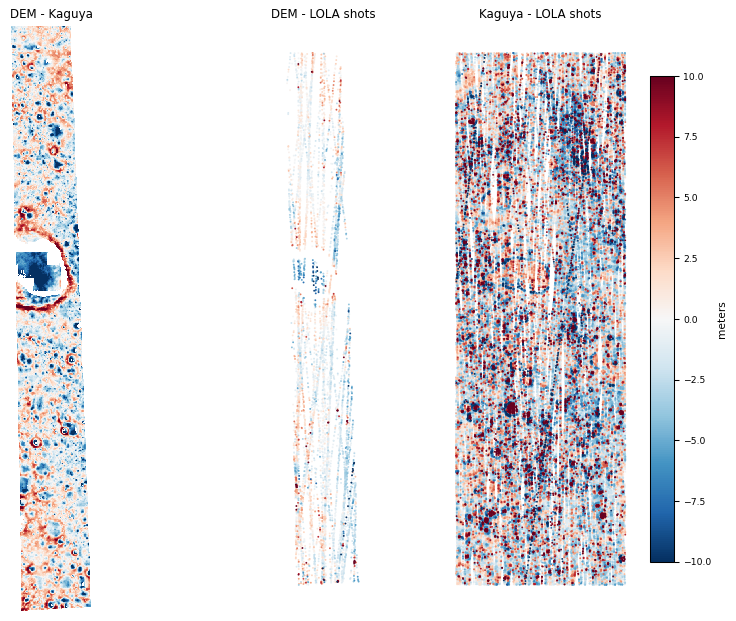
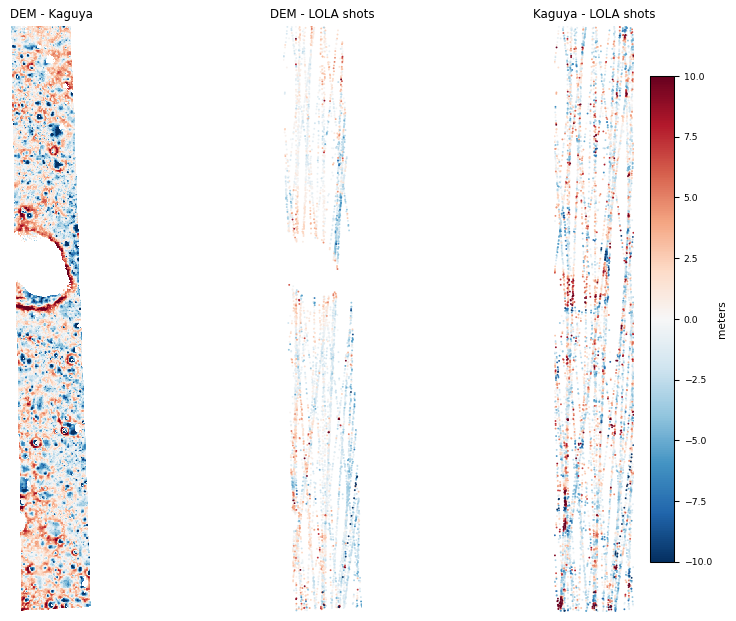
Chandrayaan-2 doc: mask the OHRC shadow crater, expand the mapproj pass
Add the shadow-mask recipe (image_calc) to both stereo passes, emit the
orthoimage from both point2dem runs, move the final-DEM figure into the
mapprojected-stereo section, rebuild the hillshade, DEM, and vertical
figures with the crater masked and the vertical panels cropped tight, add
a LOLA-refinement section, and drop the pointmap figure.

diff --git a/docs/examples/chandrayaan2.rst b/docs/examples/chandrayaan2.rst
@@ -237,15 +237,34 @@ Make the DEM at 1 m, with the orthoimage and triangulation error
     point2dem --tr 1.0 --errorimage --orthoimage \
       stereo/run-PC.tif stereo/run-L.tif
 
-.. figure:: ../images/chandrayaan2_ohrc_dem.png
-   :name: chandrayaan2_ohrc_dem
+.. _ohrc_shadow_mask:
 
-   The final DEM (mapprojected pass, see below), orthoimage, and triangulation
-   error (0 to 0.5 m). The median triangulation error is 0.07 m. The horizontal
-   striping in the error is along-track jitter at the 0.25 m GSD scale, which
-   could be reduced if solving for jitter (:numref:`jitter_solve`). An artifact
-   exists in the shadow region that is not present when stereo is rerun with
-   mapprojected images (below).
+The deep-shadow crater on this strip has almost no image signal, so stereo
+leaves an artifact there: a spurious block in the DEM with high triangulation
+error. Mask it out with the orthoimage, which is near zero in shadow. First
+build a binary mask that is 1 on lit terrain and 0 in shadow
+(:numref:`image_calc_create_mask`)::
+
+    thresh=0.1
+    image_calc -c "gte(var_0, $thresh, 1, 0)" \
+      --output-nodata-value -1e+6             \
+      -d float32                              \
+      stereo/run-DRG.tif                      \
+      -o stereo/run-shadow_mask.tif
+
+Choose the threshold from the orthoimage histogram, large enough to nuke the
+black crater but not the lit terrain (here 0.1). Then apply the mask to the DEM,
+the orthoimage, and the triangulation error, which share the same grid
+(:numref:`image_calc_mask`)::
+
+    image_calc -c "eq(var_1, 0, -9999, var_0)"      \
+      --output-nodata-value -9999                   \
+      -d float32                                    \
+      stereo/run-DEM.tif stereo/run-shadow_mask.tif \
+      -o stereo/run-DEM_masked.tif
+
+The same command is applied to ``run-DRG.tif`` and ``run-IntersectionErr.tif``.
+The masked products are used for all inspection and figures below.
 
 .. _ohrc_dem_align:
 
@@ -319,25 +338,83 @@ Grid the aligned cloud ``run_align/run-trans_source.tif`` with ``point2dem`` and
 inspect it against the reference: a notable crater that was split before should
 snap together.
 
-The transform ``run_align/run-transform.txt`` maps the OHRC DEM to the reference
-and can be applied to the original clouds or cameras (:numref:`prevtrans`,
-:numref:`ba_pc_align`).
+Mapprojection
+^^^^^^^^^^^^^
 
-Second stereo pass (mapprojected)
-^^^^^^^^^^^^^^^^^^^^^^^^^^^^^^^^^
+The transform ``run_align/run-transform.txt`` maps the OHRC DEM to the reference.
+Apply it to the bundle-adjusted cameras (:numref:`prevtrans`,
+:numref:`ba_pc_align`), so both cameras move into the reference frame::
 
-With the cameras aligned, a second pass repeats stereo on the images
-mapprojected at native 0.25 m resolution onto the aligned DEM (filled with the
-reference where it has holes), exactly as for TMC (:numref:`chandra2_tmc_map`).
-This is the final DEM shown in :numref:`chandrayaan2_ohrc_dem`. Here it is a
-solid ~65.6 km^2 strip, and it slightly improves on the first pass in both
-coverage (65.6 vs 64.2 km^2) and triangulation error (0.070 vs 0.082 m).
+    bundle_adjust                                     \
+      ohrc/img1.cub ohrc/img2.cub                     \
+      ba/run-img1.adjusted_state.json                 \
+      ba/run-img2.adjusted_state.json                 \
+      --initial-transform run_align/run-transform.txt \
+      --apply-initial-transform-only                  \
+      --inline-adjustments                            \
+      -o ba_align/run
+
+Mapproject each image at the native ~0.25 m/pixel resolution onto the reference
+DEM, with the aligned cameras. The reference is gapless, so no hole filling is
+needed. The command for the first image is below; the second is identical with
+its own cub and camera::
+
+    mapproject --tr 0.25                     \
+      --t_srs "$proj"                        \
+      ref.tif                                \
+      ohrc/img1.cub                          \
+      ba_align/run-img1.adjusted_state.json  \
+      ohrc/img1.map.tif
+
+The projection variable was set earlier in the text. Both mapprojected images
+inherit the reference DEM's projection, so they are on a common grid.
+
+Stereo with mapprojected images
+^^^^^^^^^^^^^^^^^^^^^^^^^^^^^^^
+
+Run stereo with mapprojected images (:numref:`mapproj-example`) and the aligned
+CSM cameras::
+
+    parallel_stereo                         \
+      --alignment-method none               \
+      --stereo-algorithm asp_mgm            \
+      --subpixel-mode 9                     \
+      --nodes-list nodes.txt                \
+      ohrc/img1.map.tif ohrc/img2.map.tif   \
+      ba_align/run-img1.adjusted_state.json \
+      ba_align/run-img2.adjusted_state.json \
+      stereo_map/run                        \
+      ref.tif
+
+Produce the DEM at 1 m per pixel, with the orthoimage and triangulation error::
+
+    point2dem --tr 1.0      \
+      --t_srs "$proj"       \
+      --errorimage          \
+      --orthoimage          \
+      stereo_map/run-PC.tif \
+      stereo_map/run-L.tif
+
+As in the local-epipolar pass, the deep-shadow crater is a data void. Apply the
+same shadow mask (:ref:`described above <ohrc_shadow_mask>`) to the DEM,
+orthoimage, and triangulation error before inspecting.
+
+.. figure:: ../images/chandrayaan2_ohrc_dem.png
+   :name: chandrayaan2_ohrc_dem
+
+   The final DEM (hillshade), orthoimage, and triangulation error (0 to 0.5 m),
+   after masking the shadow crater. The median triangulation error is 0.07 m. The
+   horizontal striping in the error is along-track jitter at the 0.25 m GSD scale,
+   which could be reduced by solving for jitter (:numref:`jitter_solve`).
+
+This is a solid ~65.6 km^2 strip, improving on the first pass in both coverage
+(65.6 vs 64.2 km^2) and triangulation error (0.070 vs 0.082 m).
 
 Vertical accuracy vs LOLA
 ^^^^^^^^^^^^^^^^^^^^^^^^^
 
-The reference itself may be slightly offset from LOLA (:numref:`csv_format`,
-:numref:`sfs_initial_terrain`), the global standard, and the DEM inherits that.
+The reference itself may be slightly offset from LOLA (:numref:`lola_csv`), the
+global standard, and the DEM inherits that.
 Difference the aligned DEM and the reference against the raw LOLA shots
 (:numref:`lola_csv`, :numref:`geodiff`) to check::
 
@@ -348,17 +425,30 @@ Difference the aligned DEM and the reference against the raw LOLA shots
    :name: chandrayaan2_ohrc_vertical
 
    Final DEM minus Kaguya (raster), and the DEM and Kaguya each minus the LOLA
-   shots, all clamped +-10 m. The DEM is essentially unbiased against Kaguya
-   (median -0.03 m) and sub-meter against the raw LOLA shots (-0.47 m). Kaguya
-   itself sits about -0.72 m below LOLA, so the DEM matches true ground about as
-   well as the reference it aligned to; the small residual is that reference
-   offset, not a stereo error. No further refinement to LOLA is needed here.
+   shots, all cropped to the DEM extent and clamped +-10 m. The masked crater is
+   the empty hole. The DEM is essentially unbiased against Kaguya (median -0.02 m)
+   and sub-meter against the raw LOLA shots (-0.47 m). Kaguya itself sits about
+   -0.60 m below LOLA over this area, so the DEM matches true ground about as well
+   as the reference it aligned to; the small residual is that reference offset,
+   not a stereo error.
 
-.. figure:: ../images/chandrayaan2_ohrc_pointmap.png
-   :name: chandrayaan2_ohrc_pointmap
+Refinement of alignment to LOLA
+^^^^^^^^^^^^^^^^^^^^^^^^^^^^^^^
 
-   Bundle-adjustment points, reprojected to the local stereographic frame and
-   colored by mean reprojection error (0 to 0.5 px). Sub-pixel throughout.
+The DEM is now within about a meter of LOLA, the global standard. Since it is
+already in the ballpark, the alignment can be refined directly against the LOLA
+shots with ordinary point-to-plane ICP (:numref:`align-method`), which now
+converges. Pass the DEM first, as the denser cloud (:numref:`pc_align`)::
+
+    pc_align --max-displacement 250          \
+      --csv-format "2:lon 3:lat 4:radius_km" \
+      --save-transformed-source-points       \
+      dem.tif lola_shots.csv                 \
+      -o align_lola/run
+
+The inverse transform (:numref:`prevtrans`) then maps the DEM onto LOLA and can
+be carried onto the cameras (:numref:`ba_pc_align`). Here the DEM is already
+sub-meter against LOLA, so this refinement is optional.
 
 .. _chandra2_tmc:
 
